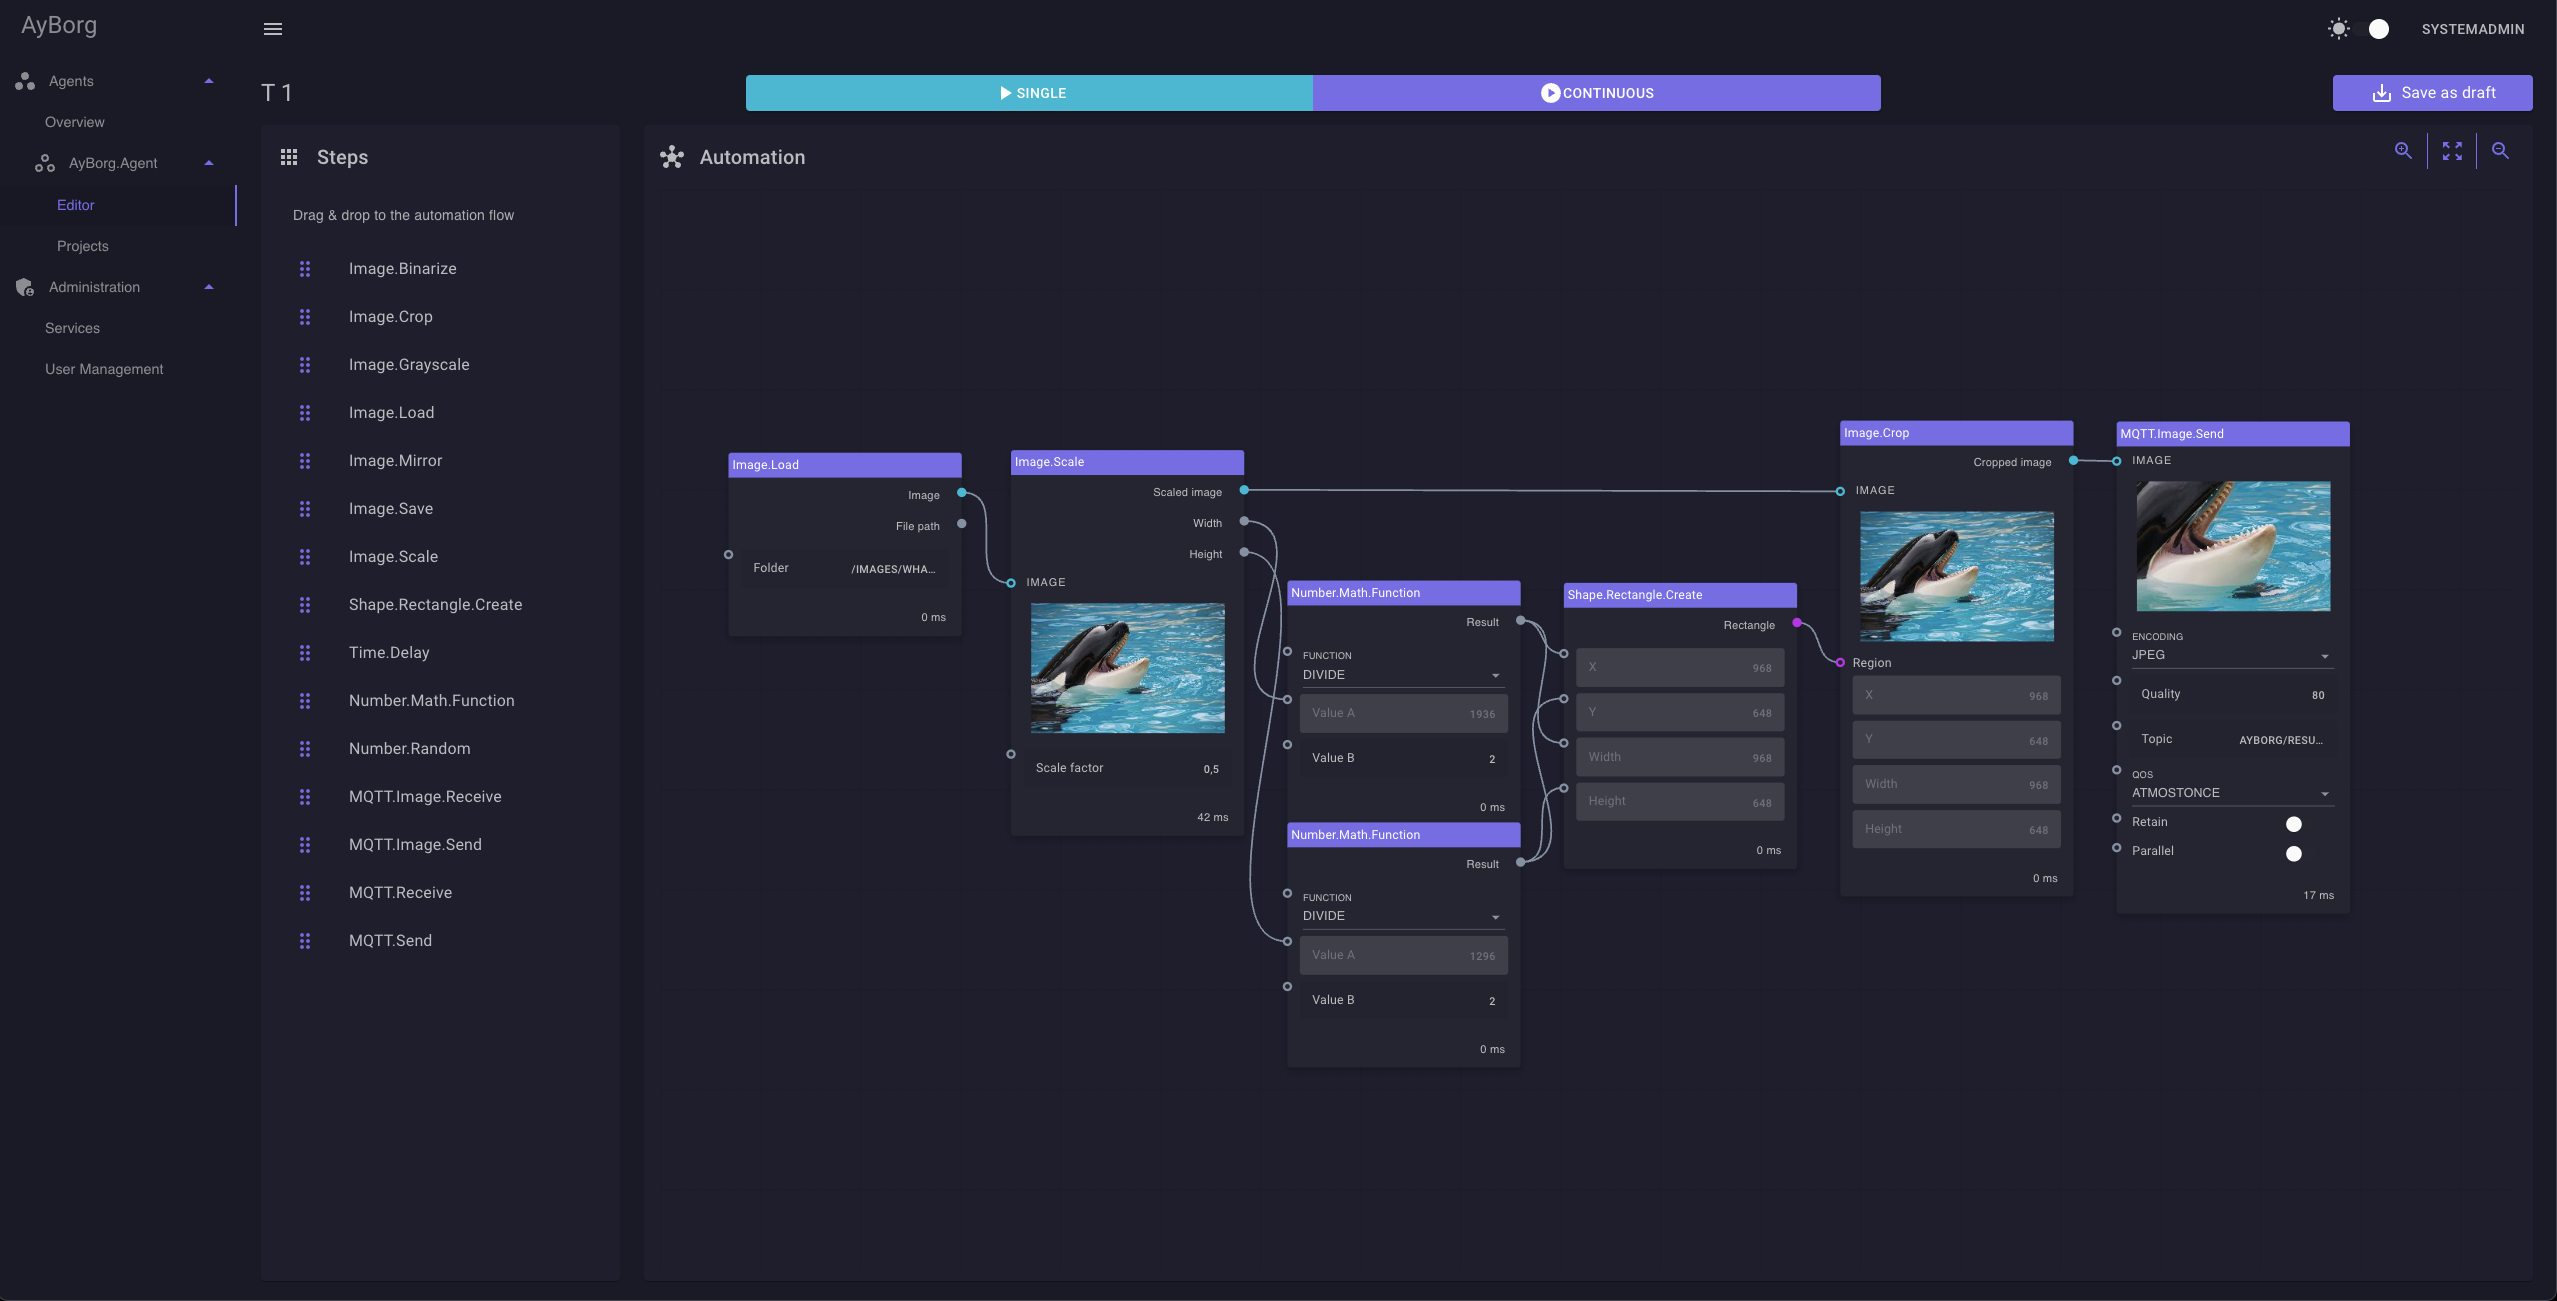
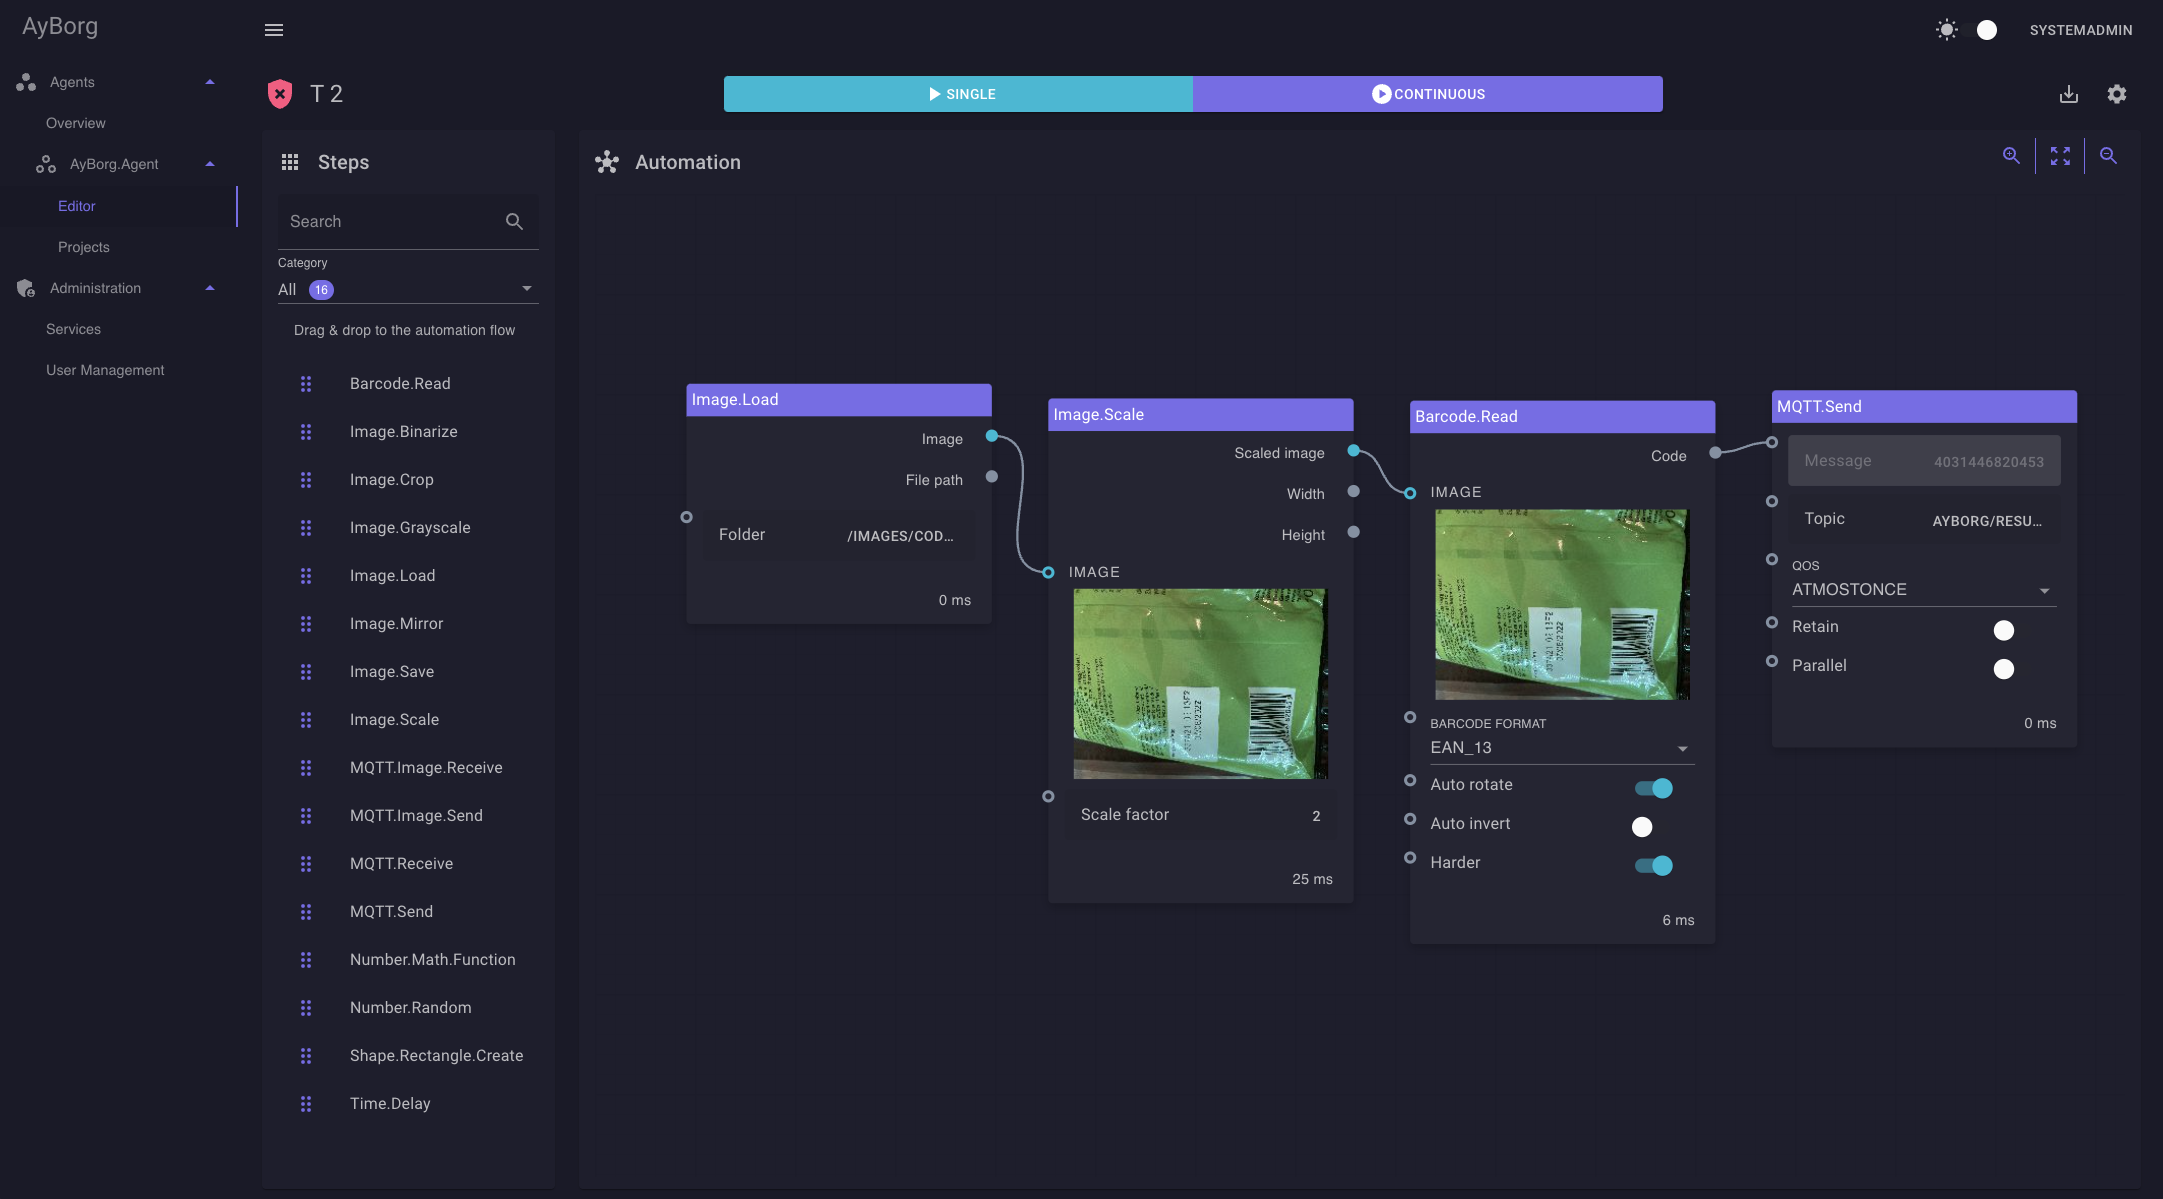
Search filter for step plugins

diff --git a/src/Web/Pages/Agent/Editor/StepsSelection.razor.cs b/src/Web/Pages/Agent/Editor/StepsSelection.razor.cs
@@ -9,6 +9,11 @@ namespace AyBorg.Web.Pages.Agent.Editor;
 public partial class StepsSelection : ComponentBase
 {
     private IEnumerable<Step> _availableSteps = new List<Step>();
+    private Dictionary<string, int> _availableCategories = new();
+    private IEnumerable<Step> _filteredSteps = new List<Step>();
+    private IEnumerable<string> _selectedCategories = new List<string>() { "All" };
+
+    private string _searchValue = string.Empty;
 
     [Parameter] public string ServiceUniqueName { get; set; } = string.Empty;
     [Inject] PluginsService PluginsService { get; set; } = null!;
@@ -16,12 +21,64 @@ public partial class StepsSelection : ComponentBase
     protected override async Task OnParametersSetAsync()
     {
         _availableSteps = await PluginsService.ReceiveStepsAsync(ServiceUniqueName);
+        _filteredSteps = _availableSteps.OrderBy(c => c.Name);
+        CreateCategories();
+
         await base.OnParametersSetAsync();
     }
 
-    private static async Task OnDragStart(DragEventArgs _, Step step)
+    private void CreateCategories()
+    {
+        IEnumerable<IEnumerable<string>> availableCategoryGroups = _availableSteps.Select(s => s.Categories).GroupBy(c => c).Select(g => g.Key);
+        var categories = new List<string>();
+        foreach (IEnumerable<string> g in availableCategoryGroups)
+        {
+            foreach (string c in g)
+            {
+                if(!categories.Contains(c))
+                {
+                    categories.Add(c);
+                }
+            }
+        }
+
+        categories = categories.OrderBy(c => c).ToList();
+
+        _availableCategories.Add("All", _availableSteps.Count());
+        foreach(string c in categories)
+        {
+            if(c != "All")
+            {
+            int count = _availableSteps.Count(s => s.Categories.Contains(c));
+            _availableCategories.Add(c, count);
+            }
+        }
+    }
+
+    private void ApplySearchFilter()
+    {
+        _filteredSteps = _availableSteps.Where(s => s.Name.Contains(_searchValue, StringComparison.InvariantCultureIgnoreCase));
+        if(!_selectedCategories.Contains("All"))
+        {
+            _filteredSteps = _filteredSteps.Where(s => s.Categories.Contains(_selectedCategories.First()));
+        }
+
+    }
+
+    private static void OnDragStart(DragEventArgs _, Step step)
     {
         DragDropStateHandler.DraggedStep = step;
-        await Task.CompletedTask;
+    }
+
+    private void OnSearchTextChanged(string newValue)
+    {
+        _searchValue = newValue;
+        ApplySearchFilter();
+    }
+
+    private void OnSelectedCategoryChanged(IEnumerable<string> values)
+    {
+        _selectedCategories = values;
+        ApplySearchFilter();
     }
 }

diff --git a/src/Agent/StepProxy.cs b/src/Agent/StepProxy.cs
@@ -22,6 +22,7 @@ public sealed class StepProxy : IStepProxy
         StepBody = stepBody;
         Ports = stepBody.Ports;
         Name = stepBody.DefaultName;
+        Categories = stepBody.Categories;
         X = x;
         Y = y;
 
@@ -51,6 +52,11 @@ public sealed class StepProxy : IStepProxy
     /// Gets or sets the name.
     /// </summary>
     public string Name { get; set; } = string.Empty;
+
+    /// <summary>
+    /// Gets the categories.
+    /// </summary>
+    public IEnumerable<string> Categories { get; }
 
     /// <summary>
     /// Gets the links.
